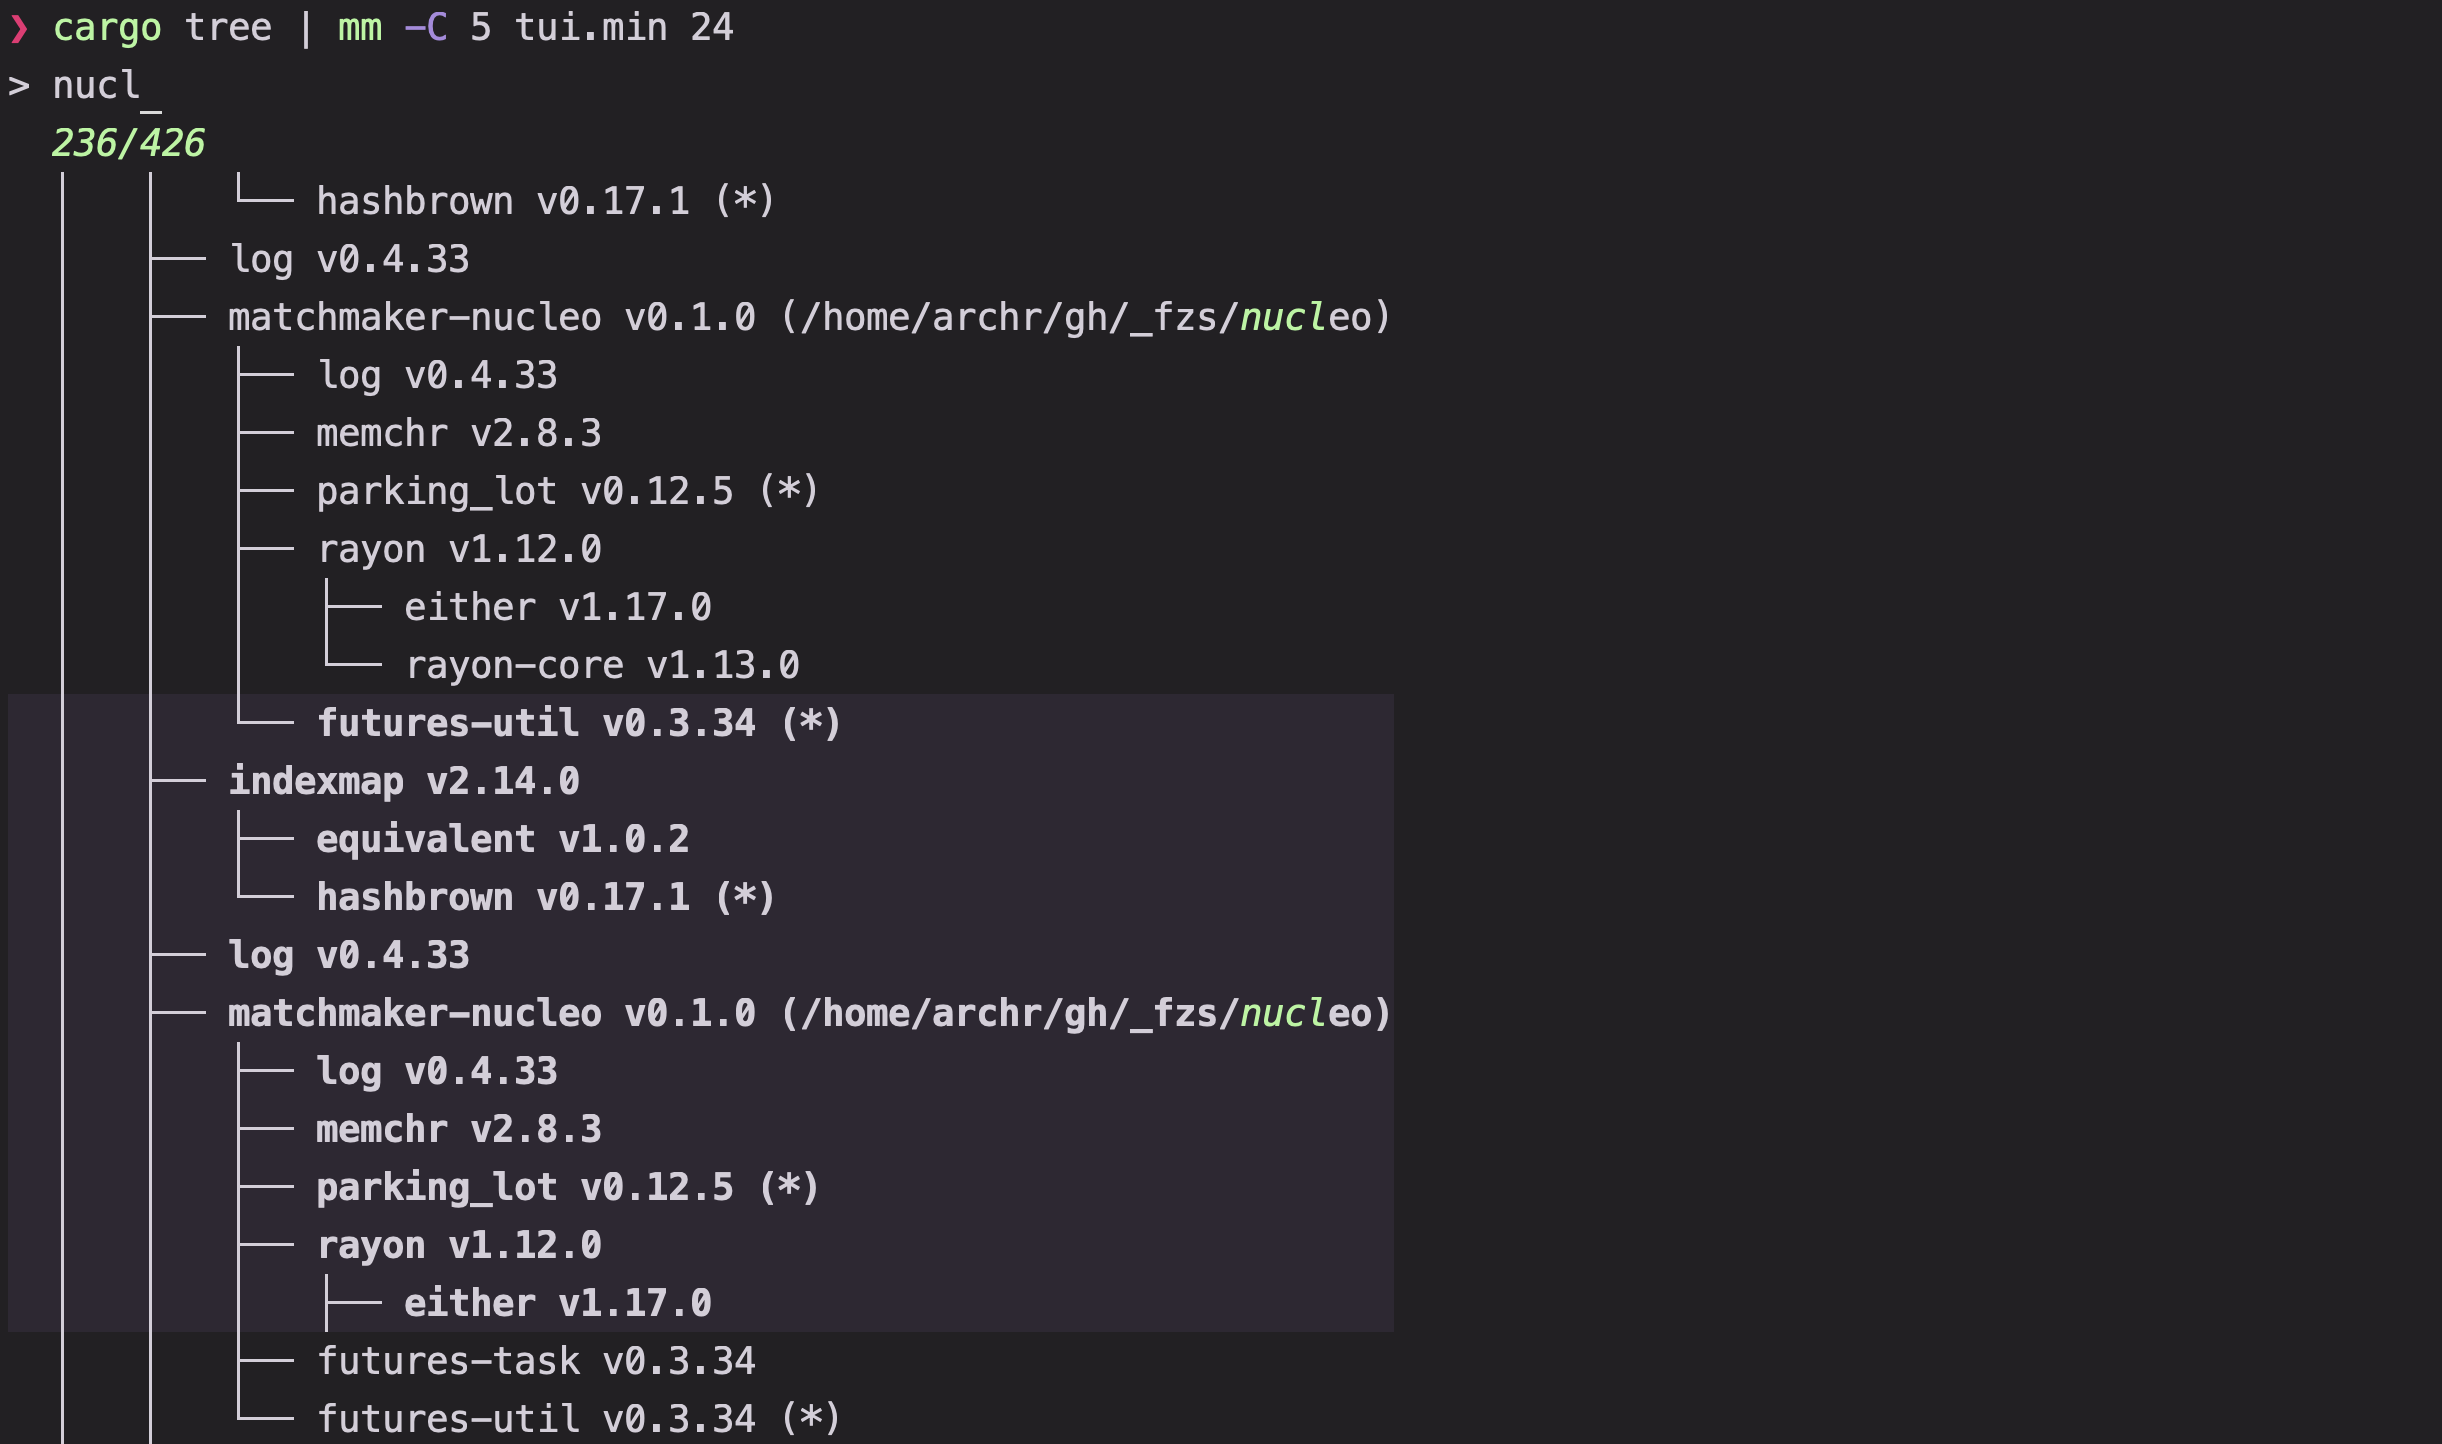
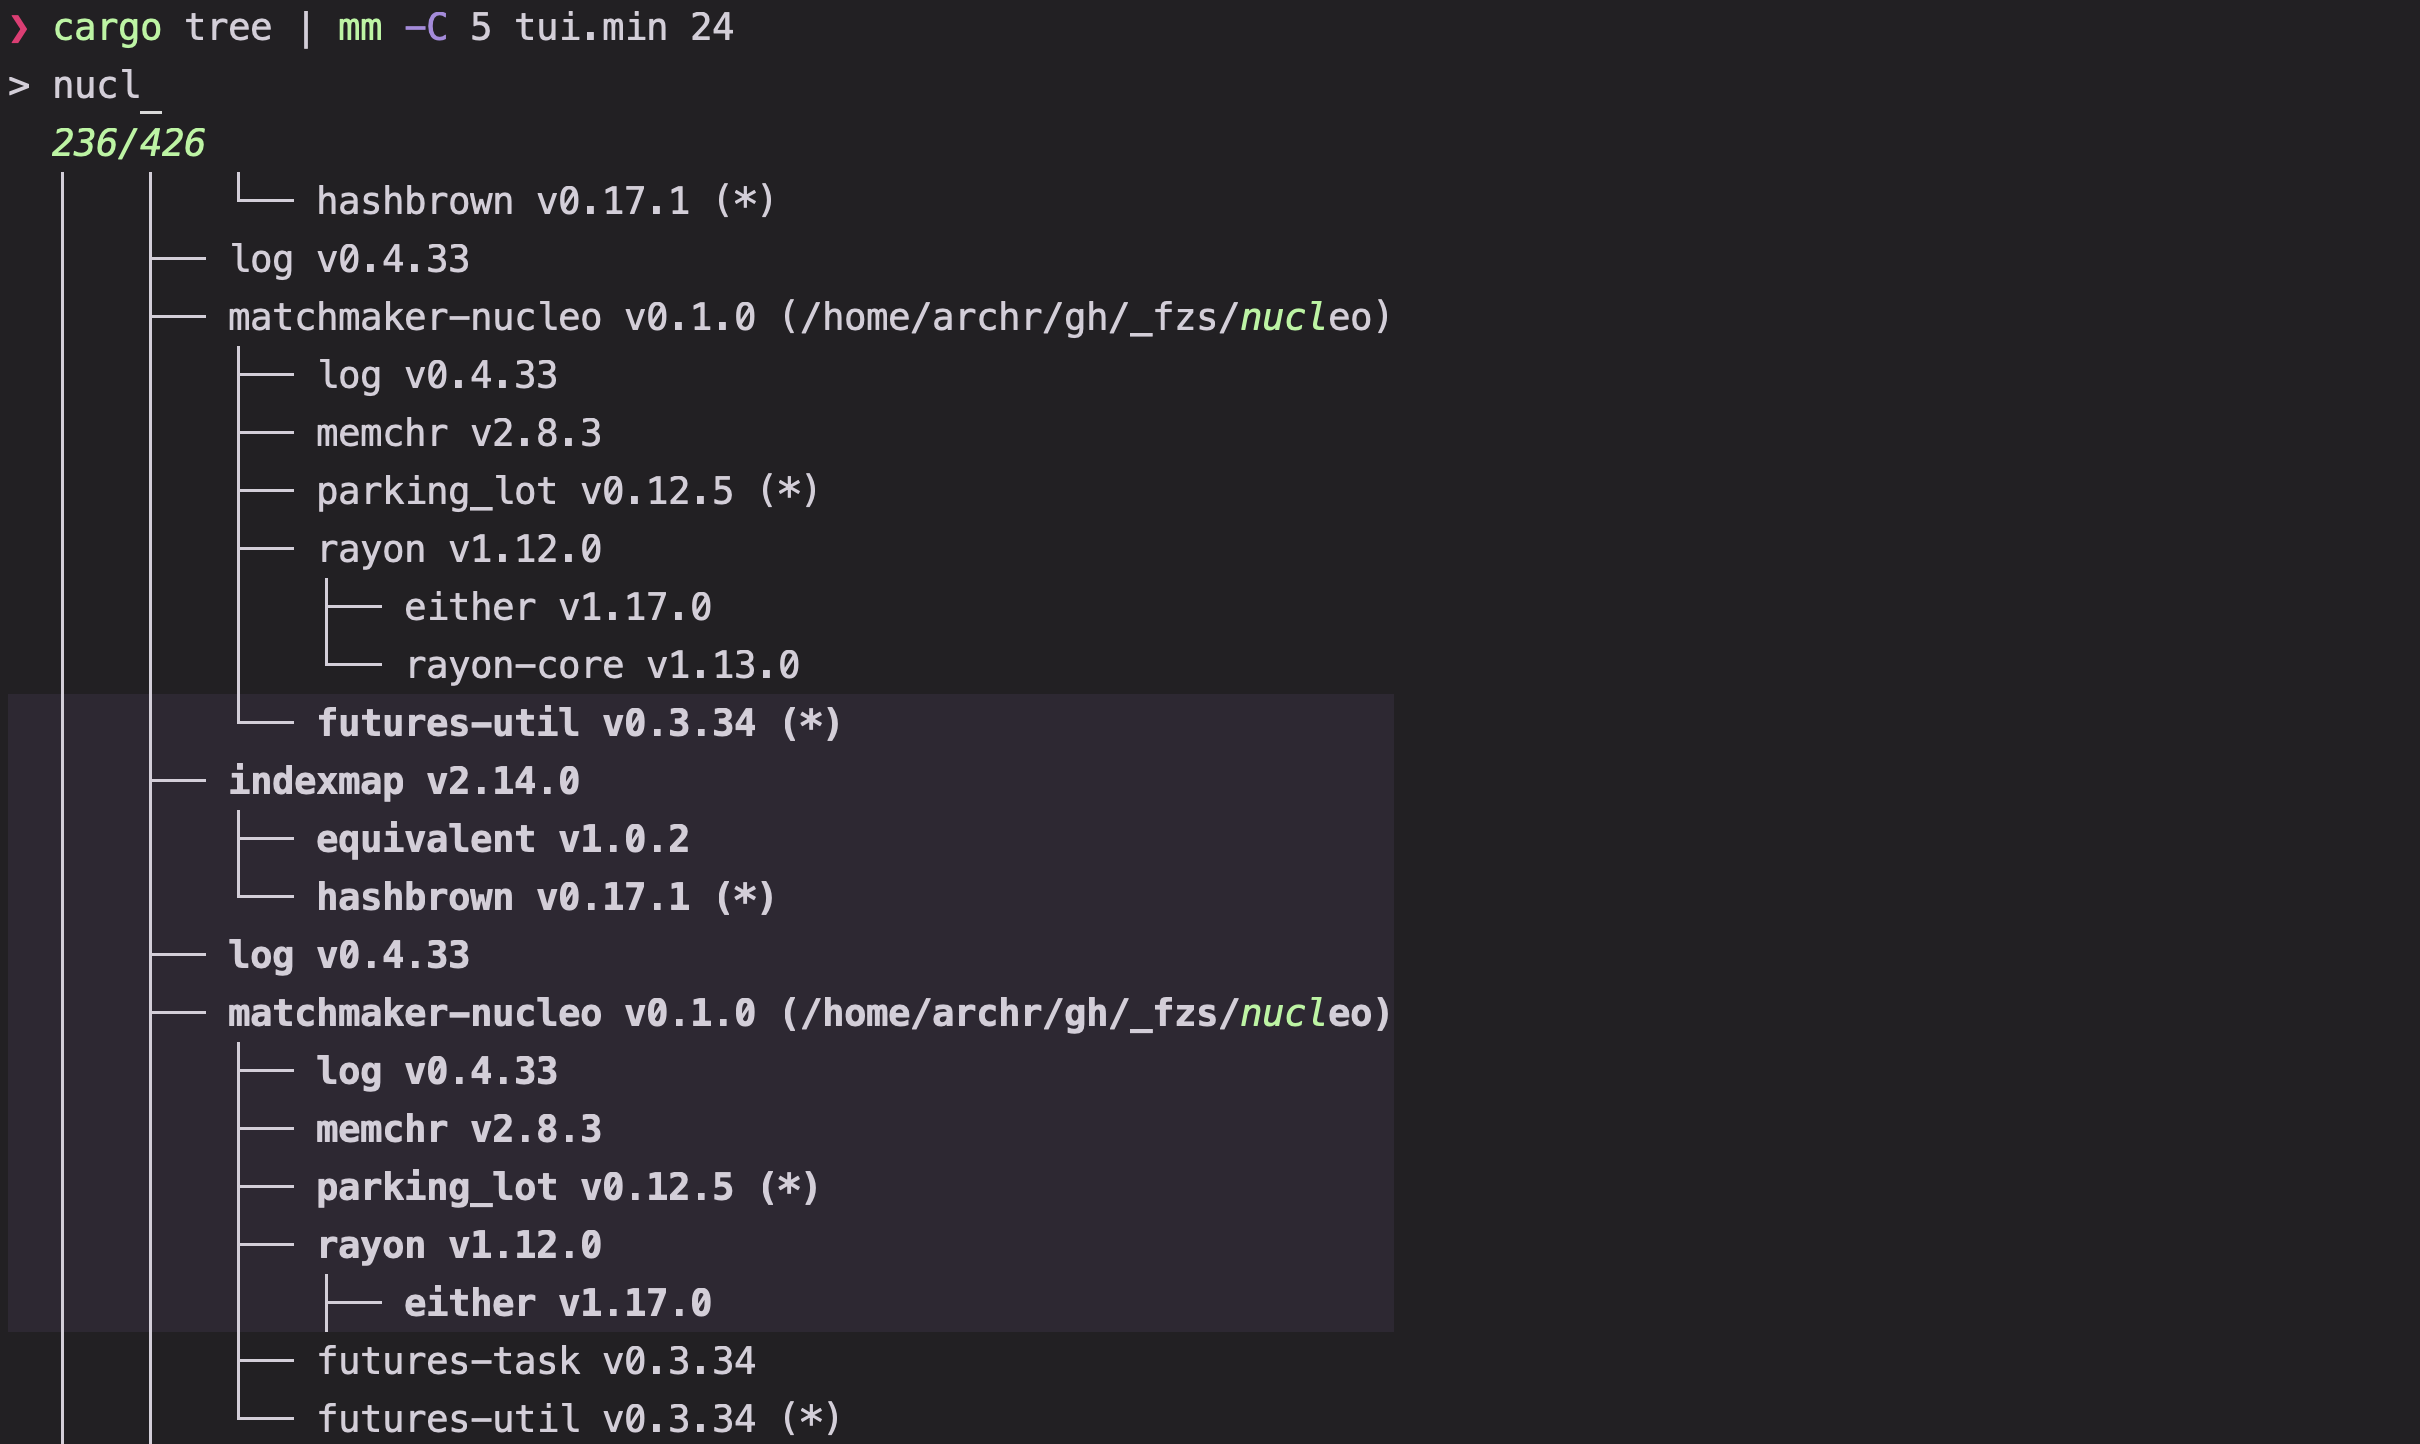
fix: documentation

Changed region(s): [[0.093, 0.1247, 0.5888, 0.9972], [0.031, 0.0, 0.3099, 0.0312], [0.031, 0.0935, 0.093, 0.1247]]

diff --git a/matchmaker-cli/src/clap.rs b/matchmaker-cli/src/clap.rs
@@ -5,6 +5,7 @@ pub static LIBRARY_FULL: &str = "matchmaker";
 pub static BINARY_SHORT: &str = "mm";
 
 #[derive(Debug, Parser, Default, Clone)]
+#[command(name = "mm", version)]
 pub struct Cli {
     #[arg(long, value_name = "PATH")]
     pub config: Option<PathBuf>,
@@ -137,6 +138,8 @@ impl Cli {
                 "--last-key",
                 "--no-read",
                 "--help",
+                "--version",
+                "-V",
                 "-F",
             ]
             .contains(&s.as_ref())

diff --git a/matchmaker-cli/assets/docs/template.md b/matchmaker-cli/assets/docs/template.md
@@ -198,6 +198,7 @@ When Matchmaker executes a command (e.g., via `Execute`, `Become`, or a preview 
 | `MM_SELECT_COUNT`    | `FZF_SELECT_COUNT` | Number of selected items                                                                                                                                                                         |
 | `MM_POS`             | `FZF_POS`          | Current row index (0-indexed cursor position)                                                                                                                                                    |
 | `MM_QUERY`           | `FZF_QUERY`        | Current input query                                                                                                                                                                              |
+| `MM_MODE`            | `FZF_MODE`         | Current mode stack (comma-separated)                                                                                                                                                             |
 | `MM_PREVIEW_COMMAND` |                    | The current preview command                                                                                                                                                                      |
 | `MM_OVERRIDE`        |                    | Path of the first applied override                                                                                                                                                               |
 | `MM_STORE`           |                    | Current value stored in state (via `Store` action)                                                                                                                                               |

diff --git a/matchmaker-cli/assets/docs/options.md b/matchmaker-cli/assets/docs/options.md
@@ -108,7 +108,7 @@ All colors and modifiers come from ratatui:
 - `on_accept`: (String) Template to execute on accepted items. Exclusive with output_template, output_separator.
 - `sync`: (bool) Whether to wait for the command to finish before starting.
 - `ax`, `additional_commands`: ([String]) Additional commands that can be cycled through using the ReloadNext action.
-- `mode`: (string) The initial mode of the application. Default values (`tty`, `t0`, `piped`, `t1`) depend on whether stdin and stdout are connected to /dev/tty.
+- `mode`: (string) The initial mode of the application. Default values (`0,1`, `0`, `1`, or `""`) depend on whether stdin and stdout are connected to /dev/tty.
 - `d`, `directory`: (string) Change directory context.
   - `~` is resolved to home directory.
   - If an object:

diff --git a/matchmaker-cli/README.md b/matchmaker-cli/README.md
@@ -99,11 +99,12 @@ find . | mm
 To start configuration, write the default configuration to a file:
 
 ```sh
-matchmaker --dump-config
+mm --dump-config
 ```
 
 The default locations are in order:
 
+- `$MATCHMAKER_CONFIG_DIR` (If set and the directory exists).
 - `~/.config/matchmaker/config.toml` (If the folder exists already).
 - `{PLATFORM_SPECIFIC_CONFIG_DIRECTORY}/matchmaker` (Generally the same as above when on linux)
 

diff --git a/matchmaker-cli/assets/docs/binds.md b/matchmaker-cli/assets/docs/binds.md
@@ -151,7 +151,7 @@ In this example, if the mode is `vim`, `h` and `l` will move the cursor horizont
 "0,1^^enter" = "Accept"
 
 # Active in any mode EXCEPT when stdin is a terminal
-"!0^^esc" = "Quit(1)""
+"!0^^esc" = "Quit(1)"
 
 # Active when mode contains "vim" but not "insert"
 "vim,!insert^^h" = "BackwardChar"

diff --git a/matchmaker-cli/assets/docs/other.md b/matchmaker-cli/assets/docs/other.md
@@ -124,5 +124,6 @@ Remember to escape any template specifiers, for example: `jq '((map(select(.type
 
 - 125: EventLoopClosed
 - 404: No Match
+- 400: No Match with a chunk error
 - 11: Start Error
 - 100: Signal to resume from BecomeOrConfirm (when emitted by spawned scripts)
